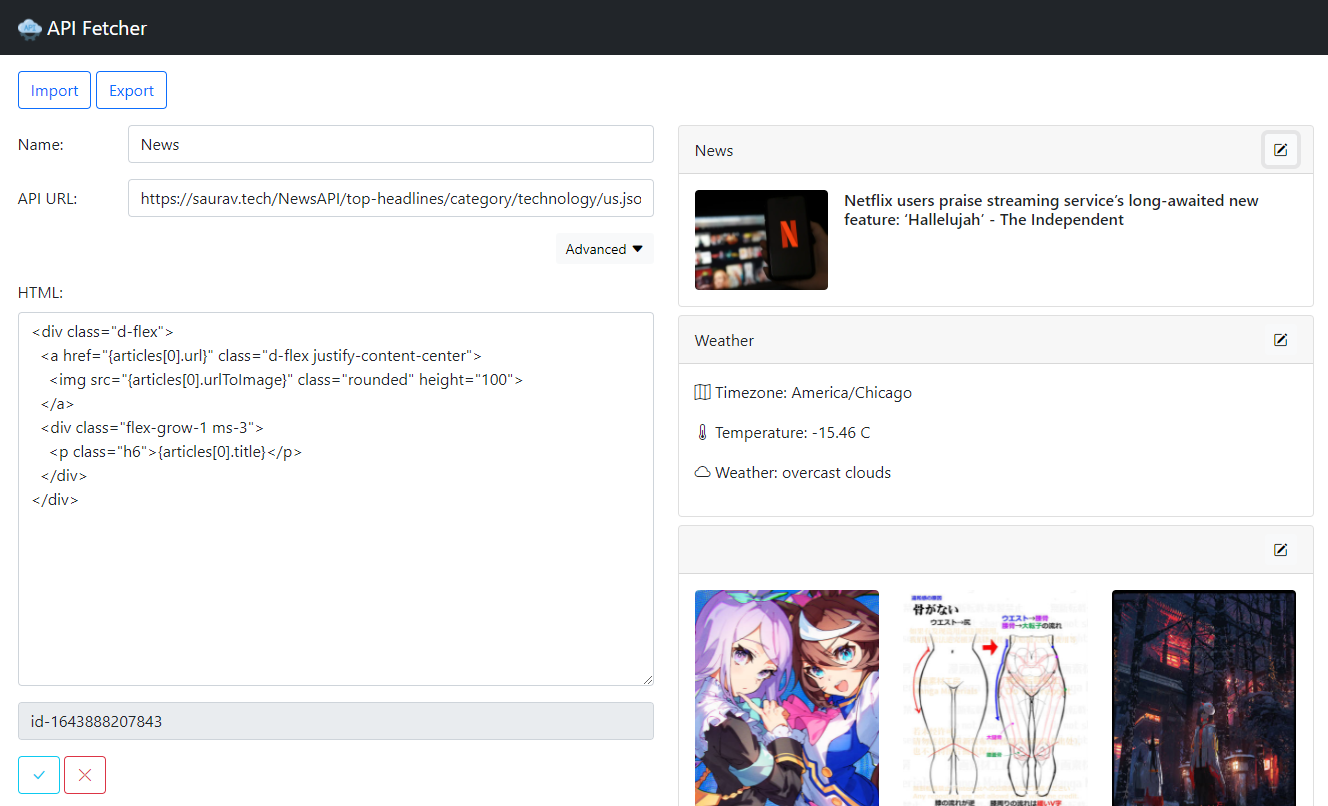
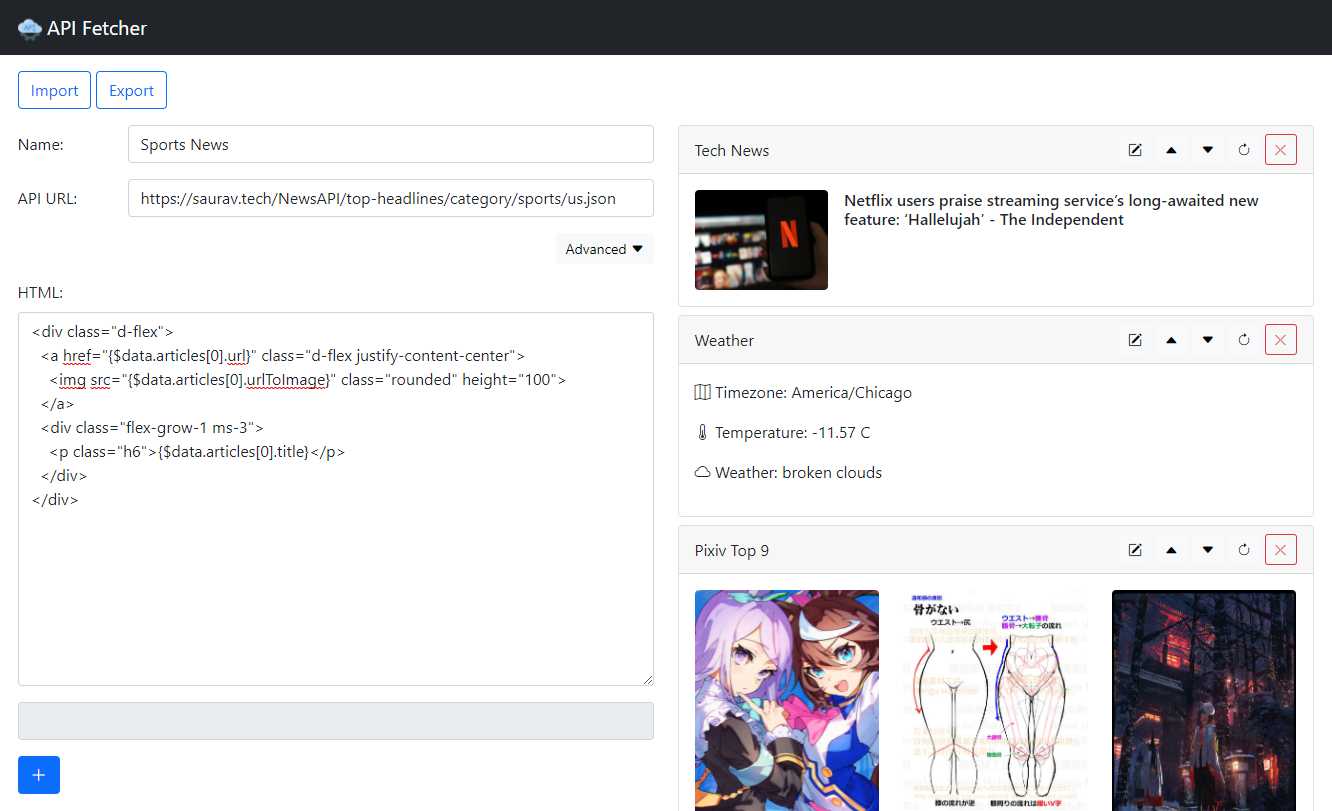
updated readme

diff --git a/README.md b/README.md
@@ -119,11 +119,12 @@ We are using Bootstrap 5 css and icons. you can insert html with Bootstrap 5 css
 
 ### How to add an API Card
 1. Click the extension icon
-2. Click the edit button on the top-left corner of the popup.
+2. Click the edit button on the top-left corner of the popup to go to the **main edit page**.
 3. Input the API url and input your prefered HTML code for displaying the results of the API fetch.
 4. Click the _blue_ + button.
 
 <div align="center"><img width="1000" src="demo/images/main_page.png"></div>
+<p align="center">main edit page</p>
 </br>
 
 ### Statement Evaluation
@@ -142,7 +143,7 @@ We are using Bootstrap 5 css and icons. you can insert html with Bootstrap 5 css
   ```
   - You can write your html code and access the `title` like this:
   ```html
-  <p> Title: {contents[0].info.title} </p>
+  <p> Title: {$data.contents[0].info.title} </p>
   ```
 
 #### Evaluation Limitations
@@ -151,7 +152,6 @@ We are using Bootstrap 5 css and icons. you can insert html with Bootstrap 5 css
 
   | Function    | Return      |
   | ----------- | ----------- |
-  | `add(a, b, c, ...)` | a + b + c + ... |
   | `add(a, b, c, ...)` | a + b + c + ... |
   | `sub(a, b)` | a - b |
   | `mul(a, b, c, ...)` | a * b * c * ... |
@@ -162,7 +162,7 @@ We are using Bootstrap 5 css and icons. you can insert html with Bootstrap 5 css
   | `or(a, b, c, ...)` | a || b || c || ... |
   | `randomInt(max)` | random integer in range [0, max) |
 
-- For Developers/Contributers: If you want to add more functions, please add into `popup.js` `FNS` constant (please follow [Contributing](#contributing) steps):
+- For Developers/Contributers: If you want to add more functions, please add into `popup.js` `FNS` constant (please follow the [Contributing](#contributing) steps):
   ```javascript
   const FNS = {
     "add": (...args) => args.reduce((acc, cur) => Number(acc) + Number(cur), 0),
